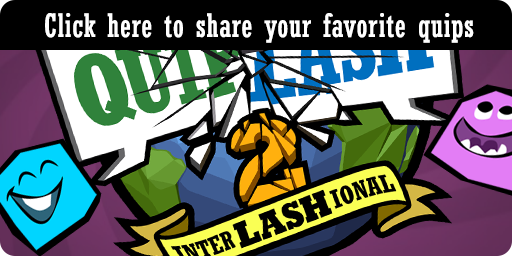
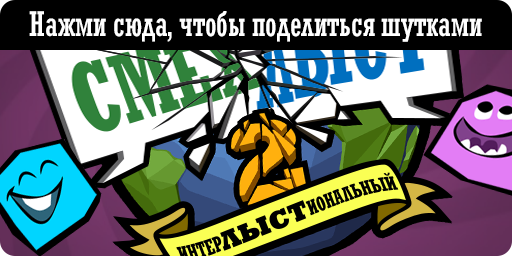
Add files via upload

Changed region(s): [[0.0312, 0.0312, 0.9375, 0.75], [0.2188, 0.625, 0.875, 1.0], [0.5938, 0.5, 0.6562, 0.5625]]

diff --git a/main/standalone/quiplash2-international/assets/style-0.css b/main/standalone/quiplash2-international/assets/style-0.css
@@ -1,5 +1,5 @@
 @charset "UTF-8";
-@import"https://fonts.googleapis.com/css?family=Rokkitt:400,700&display=swap";
+@import"https://fonts.googleapis.com/css2?family=Podkova:400,700&display=swap";
 
 .post-banner {
     position: fixed;
@@ -23135,7 +23135,7 @@ td,
 th,
 span,
 button {
-    font-family: Rokkitt, serif;
+    font-family: Podkova, serif;
     font-size: 28px;
     text-align: center;
     font-weight: 500;
@@ -23309,7 +23309,7 @@ button {
 .quiplash2-international .MakeSingleChoice .button,
 .quiplash2-international .EnterSingleText .button,
 .quiplash2-international .UGC .button {
-    font-family: Rokkitt, serif;
+    font-family: Podkova, serif;
     font-weight: 400;
     font-size: 28px;
     border: 0px solid black;
@@ -23346,7 +23346,7 @@ button {
     border-radius: 4px;
     padding: 4px;
     color: #000;
-    font-family: Rokkitt;
+    font-family: Podkova;
     font-weight: 500;
     font-size: 28px;
     line-height: normal
@@ -23401,7 +23401,7 @@ button {
 .quiplash2-international .UGC .episodesModal {
     color: #fff;
     font-size: 28px;
-    font-family: Rokkitt, serif
+    font-family: Podkova, serif
 }
 
 .quiplash2-international .Lobby .episodesModal button,
@@ -23575,7 +23575,7 @@ button {
 .quiplash2-international .UGC .ugcModal {
     background-color: #dfaa33;
     border-radius: 12px;
-    font-family: Rokkitt, serif;
+    font-family: Podkova, serif;
     font-size: 28px;
     text-transform: uppercase
 }
